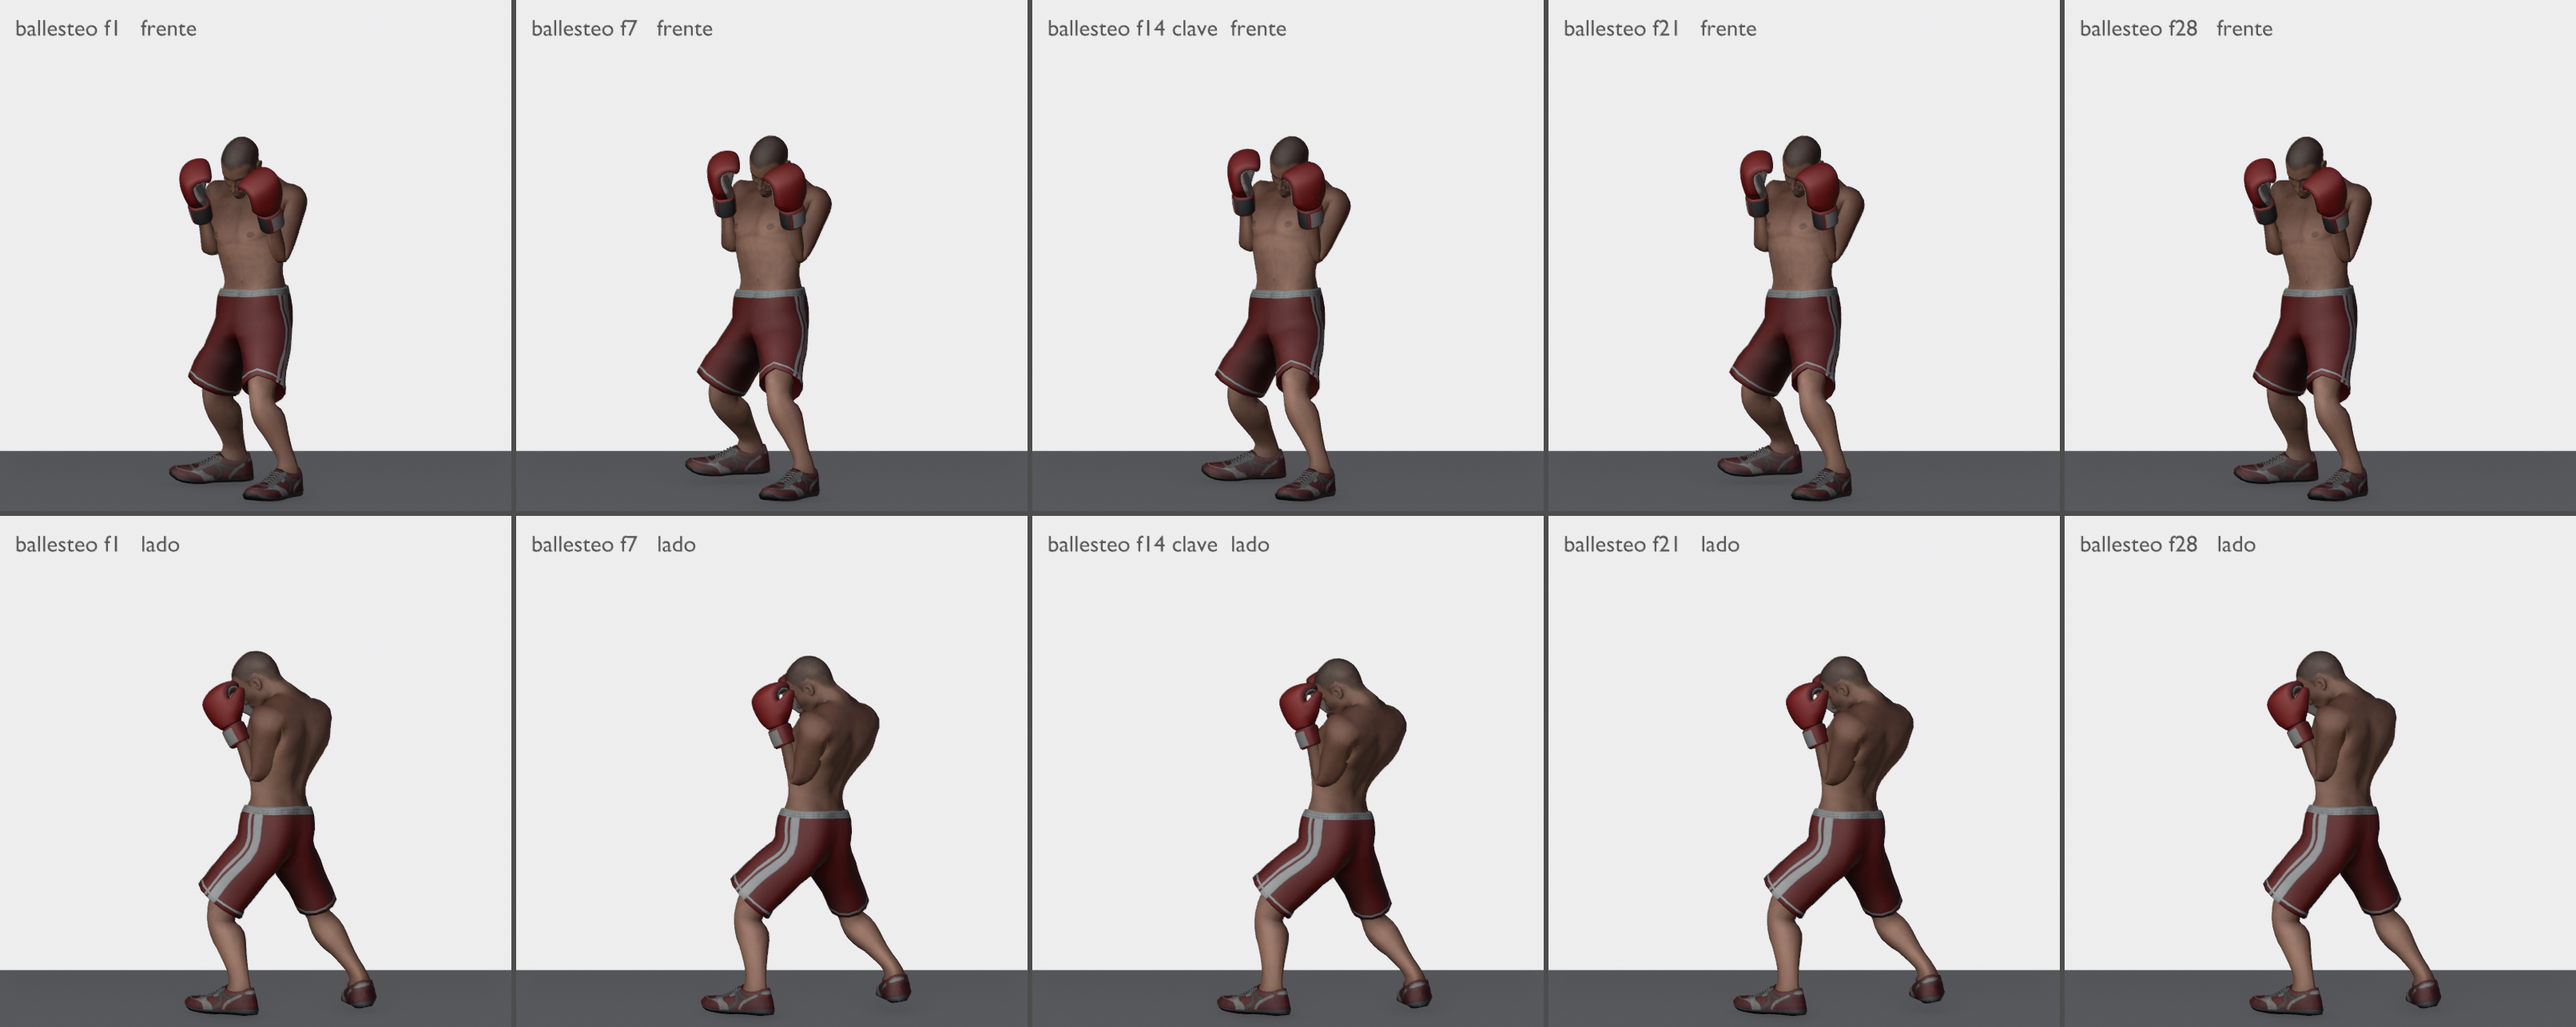
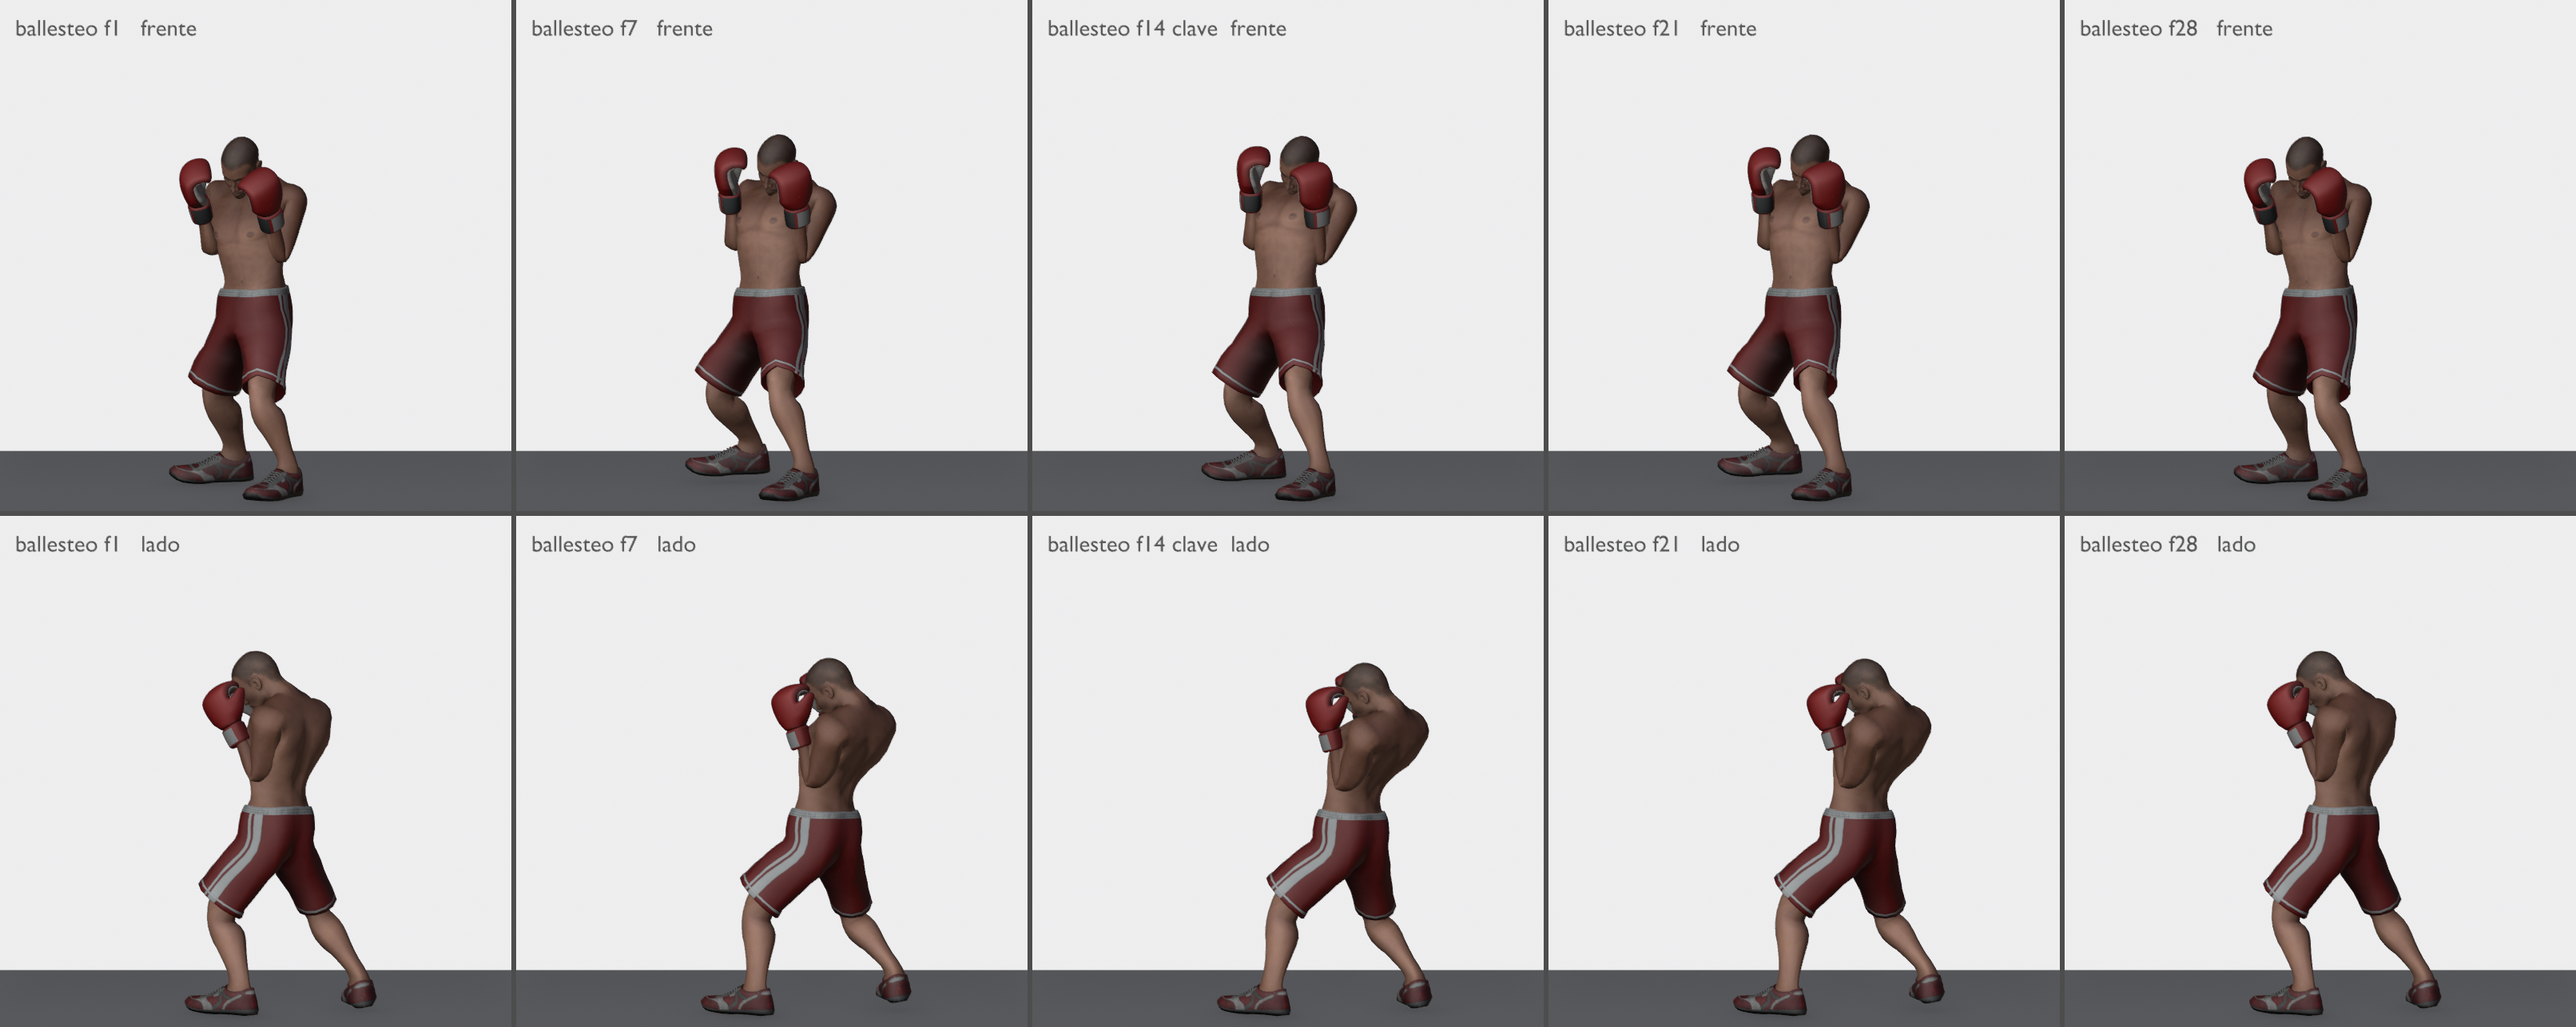
Ballesteo: tronco más atrás

diff --git a/scripts/fase5_b.py b/scripts/fase5_b.py
@@ -935,7 +935,7 @@ def pies_bal(f):
     return {"Right": -DELANTE * (0.10 * kk) + Z * (0.03 * (alt + alt2))}
 
 
-pose_bal = dict(sy=-0.12, flex=-20.0, cabeza=16.0, baja=0.02, wL=1.0, wR=1.0)
+pose_bal = dict(sy=-0.18, flex=-32.0, cabeza=24.0, baja=0.02, wL=1.0, wR=1.0)
 rep_b = crear("ballesteo", N_BAL, [(1, {}), (10, pose_bal), (18, pose_bal), (N_BAL, {})], "suave", MANOS_ARRIBA,
               pico=14, pies=pies_bal)
 informe("ballesteo", N_BAL, rep_b)

diff --git a/README.md b/README.md
@@ -99,7 +99,7 @@ python scripts/comparar_choques.py                               # tablas de cho
     Pendiente: en el impacto el puño roza la otra mano (2-4 cm). Si llega un gancho de Mixamo, lo sustituye.
   - `esquiva_der` / `esquiva_izq`: la cabeza se aparta 22-23 cm girando e inclinando el tronco, rodillas
     un poco flexionadas; el pie contrario pivota (20°, talón arriba 15°) sin moverse; vuelve al centro.
-  - `ballesteo`: tronco atrás (la cabeza retrocede 23 cm) sin paso, barbilla abajo, manos arriba; solo el pie
+  - `ballesteo`: tronco bien atrás (la cabeza retrocede 35 cm) sin paso, barbilla abajo, manos arriba; solo el pie
     de atrás retrocede 10 cm y vuelve, el de delante fijo.
   - `parada`: la mano derecha da un toque corto hacia dentro y abajo (16 cm desde la guardia, menos de un
     palmo) y la cabeza se aparta un poco a su derecha.
